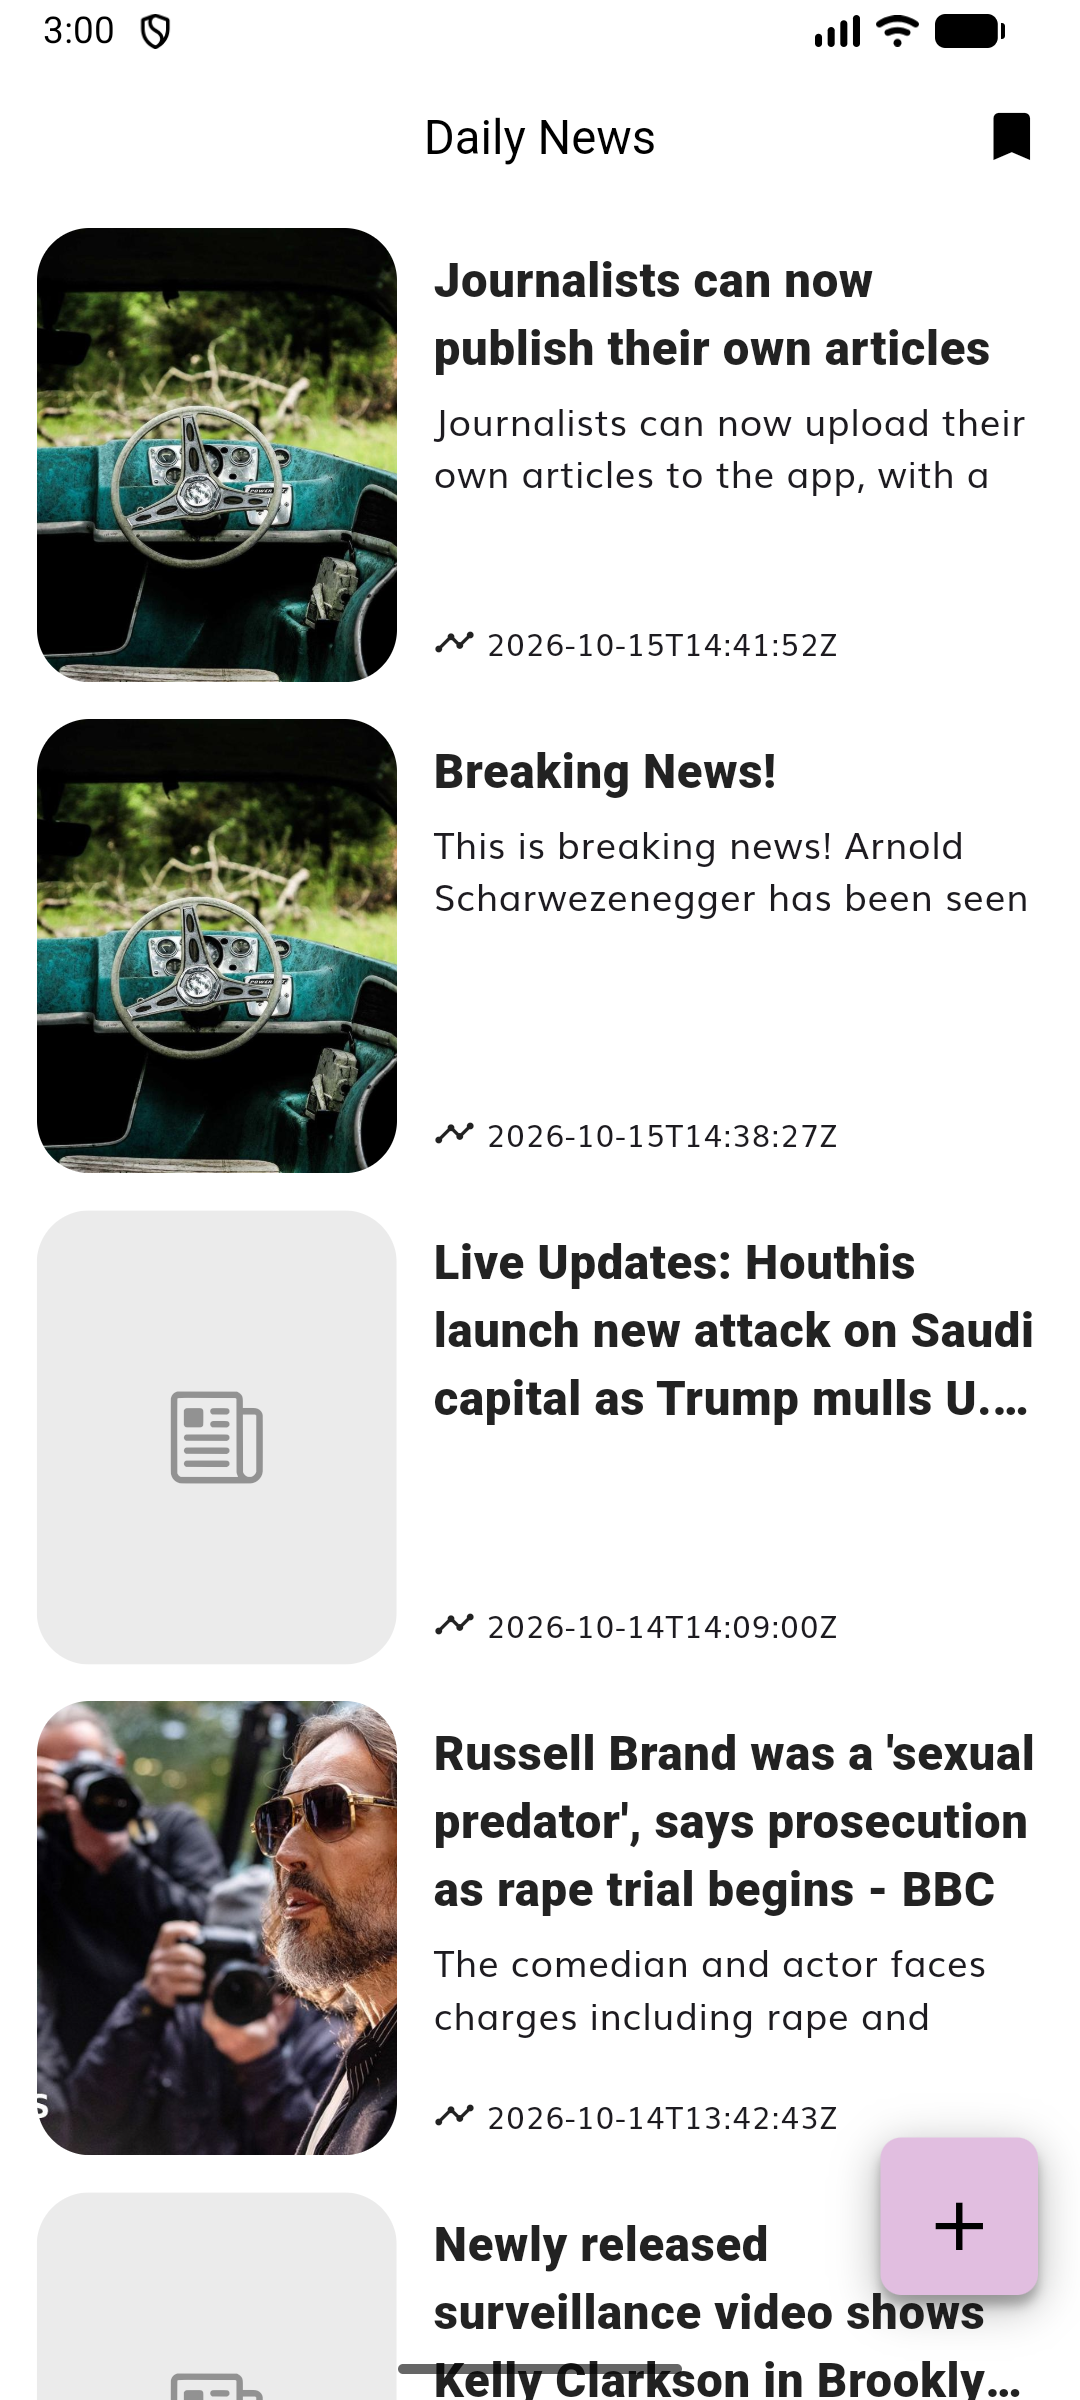
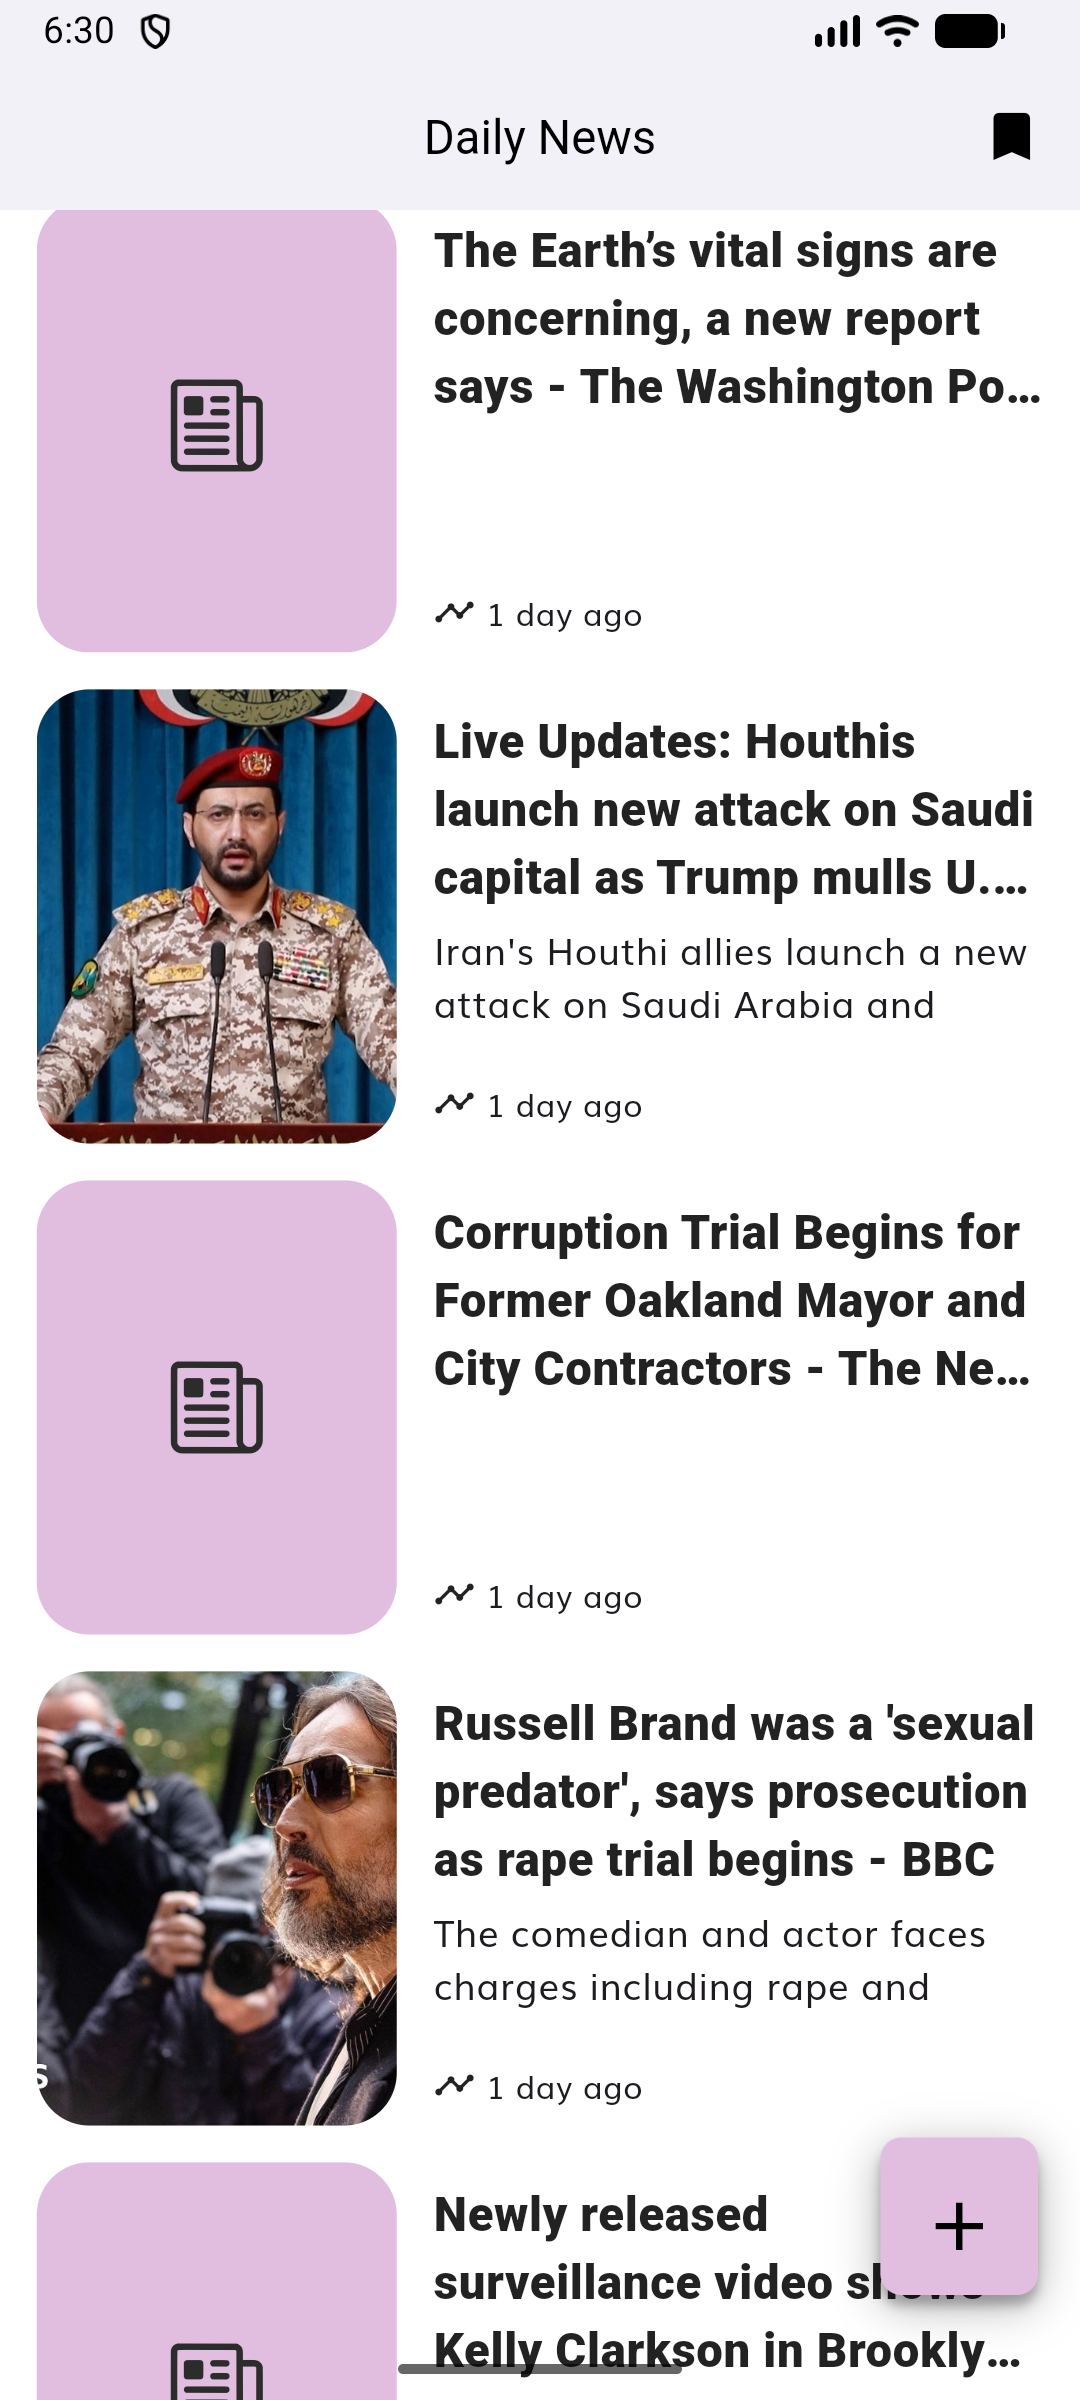
docs: add the extra features to the report
Rich text (Figma annotation #3), the feed improvements (annotation #5)
and continuous integration, with their screenshots and the updated
number of tests.

diff --git a/docs/REPORT.md b/docs/REPORT.md
@@ -108,7 +108,6 @@ On the professional side, I learned to work in small, reviewed steps (one branch
 **If I continued the project**, I would:
 - add Firebase Authentication, so that journalists can edit and delete their own articles;
 - add a server-side proxy for the news API and Firebase App Check;
-- support rich text (design annotation #3);
 - paginate the feed;
 - run an accessibility review.
 
@@ -135,7 +134,9 @@ On the professional side, I learned to work in small, reviewed steps (one branch
 | Confirmation after publishing, back on the refreshed feed | ![Published](report_images/07_published_confirmation.png) |
 | Published articles on top of the feed, read from Firestore and Cloud Storage | ![Feed](report_images/09_real_firebase_feed.png) |
 | Detail of a published article | ![Detail](report_images/10_real_firebase_detail.png) |
-| Placeholder for news without image | ![Placeholder](report_images/12_image_placeholder.png) |
+| Lilac placeholder for news without image | ![Placeholder](report_images/12_image_placeholder.png) |
+| Formatted text while writing, with the bold button highlighted (Figma annotation #3) | ![Toolbar](report_images/14_formatting_toolbar.png) |
+| "Journalist" badge and relative dates in the feed (Figma annotation #5) | ![Badges](report_images/15_feed_badges_and_dates.png) |
 
 ## 6. Overdelivery
 
@@ -143,16 +144,19 @@ On the professional side, I learned to work in small, reviewed steps (one branch
 - **Design annotations from the Figma prototype** (suggestions, not requirements):
   - #1 maximum number of characters (title 100, content 5000), enforced in the app and in the security rules;
   - #2 the button opens the gallery with photos only;
+  - #3 rich text: a toolbar inside the content field adds **bold** text and subheadings, which are shown formatted while writing and highlight their button. The content is stored as Markdown, rendered with its format in the detail and shown as plain text in the feed;
   - #4 tapping the image picks another one;
+  - #5 a better feed: dates like "2 hours ago", a "Journalist" badge on the articles written in the app, pull to refresh, and a real "Retry" button when the feed cannot be loaded;
   - #6 clear messages for whatever is missing;
   - #7 confirmation after publishing, and the feed is refreshed;
   - #8 loading overlay while publishing.
 - **A resilient combined feed**: published articles and news API articles, newest first. If one source fails, the other one is still shown.
 - **Security in layers** (see [7.4](#74-security)): schema-enforcing rules for Firestore and Storage, 30 rules tests, an API key restricted to the app, and cost protection.
 - **Tests**:
-  - 101 unit and widget tests;
+  - 161 unit and widget tests;
   - 30 security rules tests;
   - an integration test of the full publishing journey on the Firebase emulators.
+- **Continuous integration with GitHub Actions**: every push and pull request runs `flutter analyze`, the unit and widget tests and the security rules tests on the Firebase emulators. The integration test needs an Android emulator, so it is run locally.
 - **Starter project left better than it was** (Boy Scout rule):
   - it builds with current Flutter;
   - `flutter analyze` reports no issues (it reported 8);
@@ -170,14 +174,16 @@ No separate design prototypes were created. The states that the Figma prototype 
 - validation messages;
 - loading overlay;
 - success confirmation;
-- placeholder for articles without image.
+- placeholder for articles without image;
+- the bold and subheading toolbar;
+- the "Journalist" badge;
+- the feed error message with its "Retry" button.
 
 The architecture and security diagrams in [section 7](#7-extra-sections) document the design of the feature.
 
 ### 6.3 How can you improve this
 - **Firebase Authentication**: an `authorId` field, editing and deleting your own articles, ownership-based rules.
 - **A Cloud Functions proxy for the news API**, so that its key never ships inside the app, and **Firebase App Check**, so that only the app can write.
-- **Rich text** (Markdown) for subheadings and bold text (Figma annotation #3).
 - **A scheduled Cloud Function** to delete thumbnails that are never referenced by an article.
 - **Pagination** of the feed (it currently reads the 50 newest published articles).
 - **Updating the remaining starter dependencies** (Dio 5 and Retrofit 4, Firebase plugins), and adopting `bloc_test`, which can now be installed.
